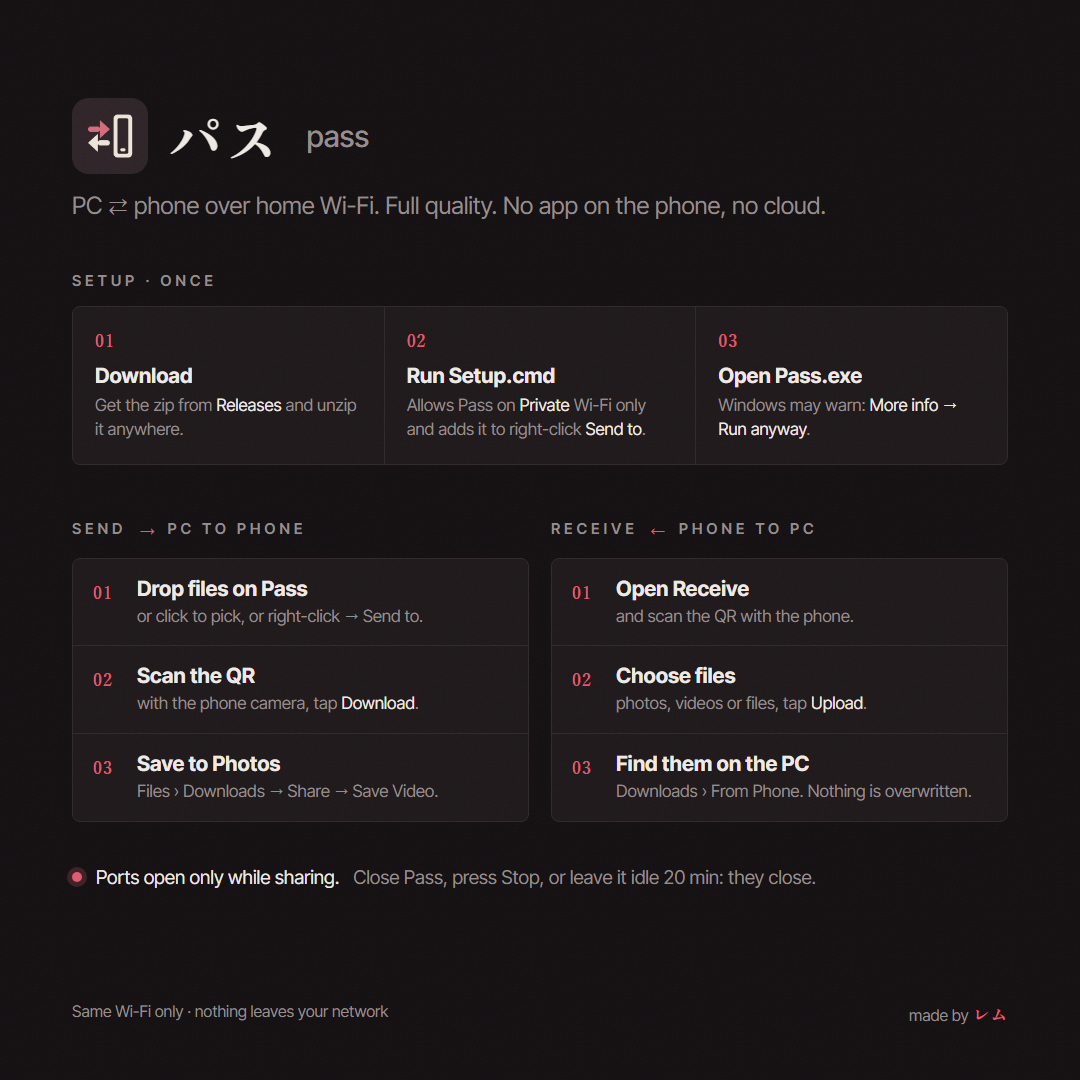
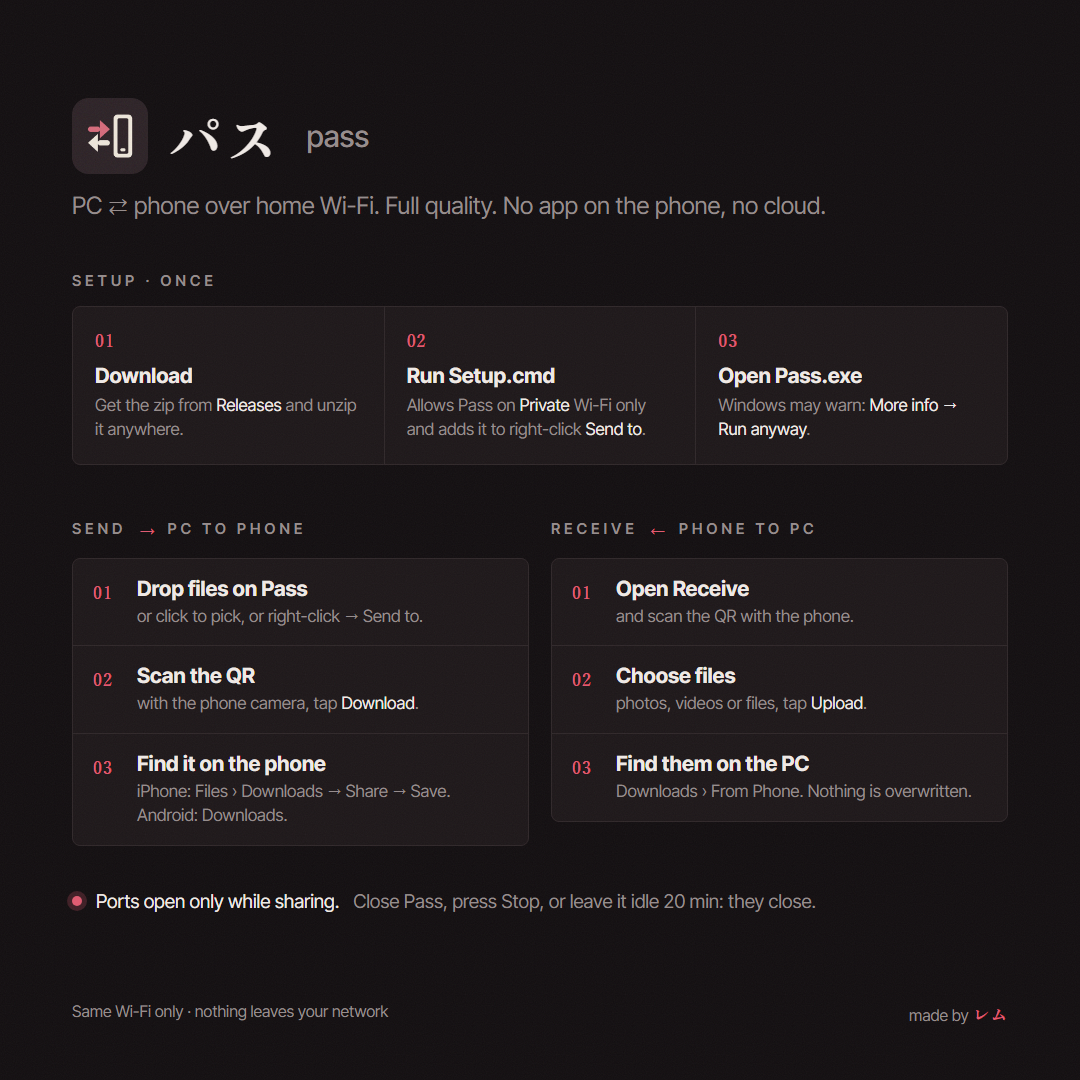
Show Android tips on the phone pages

Changed region(s): [[0.0611, 0.7944, 0.7639, 0.8556], [0.1222, 0.7028, 0.3972, 0.7639]]

diff --git a/tools/how_to.html b/tools/how_to.html
@@ -53,7 +53,7 @@ body::after{content:"";position:absolute;inset:0;pointer-events:none;opacity:.05
     <div class="sheet">
       <div class="cell"><span class="n">01</span><b>Drop files on Pass</b><p>or click to pick, or right-click → Send to.</p></div>
       <div class="cell"><span class="n">02</span><b>Scan the QR</b><p>with the phone camera, tap <em>Download</em>.</p></div>
-      <div class="cell"><span class="n">03</span><b>Save to Photos</b><p>Files › Downloads → Share → Save Video.</p></div>
+      <div class="cell"><span class="n">03</span><b>Find it on the phone</b><p>iPhone: Files › Downloads → Share → Save. Android: Downloads.</p></div>
     </div>
   </div>
   <div>

diff --git a/pass_app.py b/pass_app.py
@@ -103,11 +103,12 @@ input[type=file]{display:none}
 .foot{color:var(--mute);font-size:11px;margin-top:26px;letter-spacing:.04em}
 :focus{outline:none}
 @media (hover:hover){label.pick:hover{border-color:var(--mute)}.b:hover{filter:brightness(1.08)}}
+.and{display:none}html.android .and{display:inline}html.android .ios{display:none}
 """
 
 PAGE_HEAD = """<!doctype html><html lang="en"><head><meta charset="utf-8">
 <meta name="viewport" content="width=device-width,initial-scale=1,maximum-scale=1,user-scalable=no">
-<meta name="theme-color" content="#120e10"><title>Pass</title><style>__CSS__</style></head><body>
+<meta name="theme-color" content="#120e10"><title>Pass</title><script>if(/Android/i.test(navigator.userAgent))document.documentElement.className='android'</script><style>__CSS__</style></head><body>
 <div class="top"><b>パス</b><span>pass</span></div>"""
 
 PAGE_FOOT = '<p class="foot">Pass · made by <b>レム</b></p></body></html>'
@@ -167,9 +168,12 @@ def make_handler(st):
                 for i, p in enumerate(list(st.files)) if os.path.isfile(p))
             body = phone_page(
                 '<div class="lbl">From your PC</div>' + (items or '<p class="h">No files yet.</p>') +
-                '<p class="h">Tap <b>Download</b>, then <b>Files › Downloads</b> → tap the file → '
+                '<p class="h"><span class="ios">Tap <b>Download</b>, then <b>Files › Downloads</b> → tap the file → '
                 '<b>Share</b> → <b>Save Video</b> (or Save Image) to put it in Photos.<br><br>'
-                'Keep Safari open until it finishes.</p>')
+                'Keep Safari open until it finishes.</span>'
+                '<span class="and">Tap <b>Download</b>. It saves to the phone’s <b>Downloads</b> folder: '
+                'open it from the download bar, the <b>Files</b> app, or <b>Gallery / Photos</b> (Downloads album).<br><br>'
+                'Keep this tab open until it finishes.</span></p>')
             self.send_response(200)
             self.send_header('Content-Type', 'text/html; charset=utf-8')
             self.send_header('Content-Length', str(len(body)))
@@ -284,7 +288,7 @@ RECV_BODY = """<div class="lbl">Send to your PC</div>
 <input id="f" type="file" multiple>
 <div id="list" style="margin-top:8px"></div>
 <button class="b" id="go" disabled style="margin-top:8px">Upload</button>
-<p class="h">Saved full size on the PC in <b>__FOLDER__</b>.<br><br>Keep Safari open and the screen on until every file says <b>Done</b>.</p>
+<p class="h">Saved full size on the PC in <b>__FOLDER__</b>.<br><br>Keep <span class="ios">Safari</span><span class="and">this tab</span> open and the screen on until every file says <b>Done</b>.</p>
 <script>
 var T='__TOKEN__',inp=document.getElementById('f'),list=document.getElementById('list'),go=document.getElementById('go'),rows=[],busy=false;
 function human(n){var u=['B','KB','MB','GB'],i=0;while(n>=1024&&i<3){n/=1024;i++}return (i?n.toFixed(1):n)+' '+u[i]}

diff --git a/README.md b/README.md
@@ -21,13 +21,16 @@ Pass isn't code-signed, so Windows SmartScreen may say "Windows protected your P
 1. Drop files on the window (or click to pick, or right-click files → Send to → **Pass to phone**).
 2. Scan the QR with the phone camera and tap **Download**.
 3. iPhone: **Files › Downloads** → tap the file → **Share** → **Save Video** / **Save Image** to put it in Photos.
+   Android: it's in **Downloads** (Files app, or the Downloads album in Gallery / Google Photos).
 
 **Receive (phone → PC)**
 1. Switch to **Receive** and scan the QR.
 2. Tap **Choose photos, videos or files**, pick them, tap **Upload**.
 3. Files land in **Downloads › From Phone** (**Open folder** jumps there). Same names get ` (1)`, ` (2)` added; nothing is overwritten.
 
-Keep Safari open and the screen on until a transfer finishes (an interrupted download resumes).
+Keep the browser tab open and the screen on until a transfer finishes (an interrupted download resumes). Works with iPhone (Safari) and Android (Chrome); the phone page shows the right tips for each.
+
+Scanning: iPhone and most Android cameras read QR codes directly; otherwise use Google Lens or a QR app.
 
 Picking from the iPhone Photos picker can turn HEIC into JPG. For the untouched original, pick through **Files**, or set Settings › Camera › Formats to **Most Compatible**.
 
